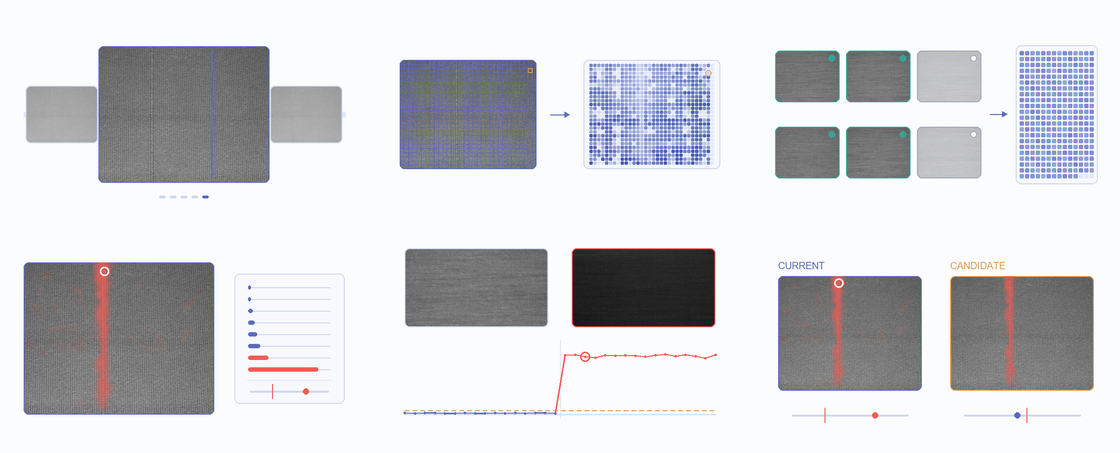
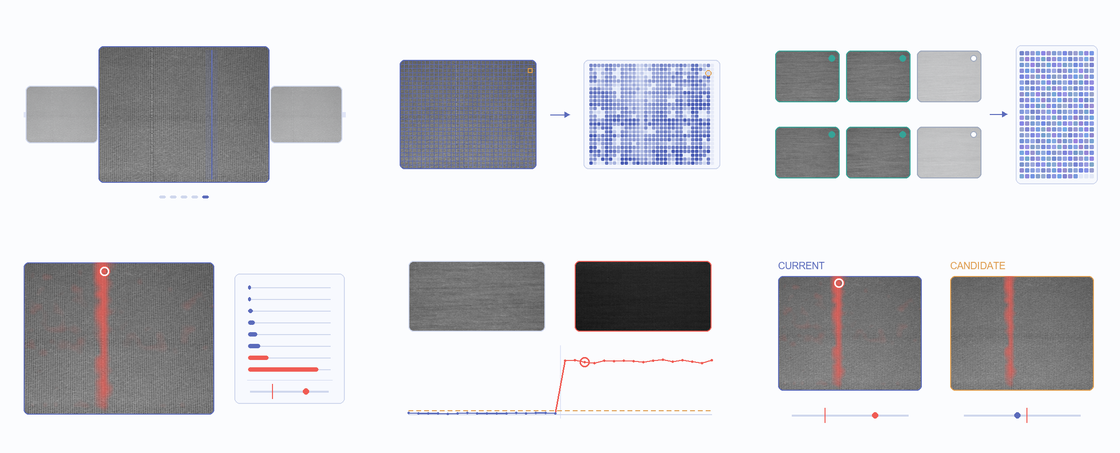
Balance visual shift animation layout

Changed region(s): [[0.3438, 0.5254, 0.6562, 0.7417], [0.3438, 0.8962, 0.625, 0.9272], [0.5, 0.7726, 0.6562, 0.8344]]

diff --git a/scripts/generate_next_method_gifs.py b/scripts/generate_next_method_gifs.py
@@ -256,7 +256,7 @@ def animation_05(meta: dict) -> list[Image.Image]:
     limit = float(meta["drift_threshold"])
     if len(source_scores) != 16 or len(target_scores) != 16 or ends[-1] != 608:
         raise ValueError("The shift animation needs 16 consecutive windows per run")
-    plot = (42, 235, 678, 365)
+    plot = (50, 247, 670, 365)
     coordinate = lambda value: plot[3] - round(value * (plot[3] - plot[1]))
     step = (plot[2] - plot[0]) / (len(source_scores) + len(target_scores) - 1)
     source_points = [(round(plot[0] + step * i), coordinate(score))
@@ -273,13 +273,13 @@ def animation_05(meta: dict) -> list[Image.Image]:
         draw = ImageDraw.Draw(base)
         source_image = images[0 if tick < 5 else 1]
         target_image = images[2 if tick < 12 else 3 if tick < 16 else 4]
-        photo(base, source_image, (42, 25, 294, 162),
+        photo(base, source_image, (50, 51, 280, 145),
               outline=INDIGO if progress < .5 else LINE)
-        photo(base, target_image, (384, 25, 294, 162),
+        photo(base, target_image, (390, 51, 280, 145),
               outline=RED if progress >= .5 else LINE,
               opacity=.5 if progress < .5 else 1)
         draw = ImageDraw.Draw(base)
-        draw.line((boundary, 213, boundary, 373), fill=PALE, width=2)
+        draw.line((boundary, 224, boundary, 373), fill=PALE, width=2)
         draw.line((plot[0], plot[3], plot[2], plot[3]), fill=LINE, width=2)
         threshold_y = coordinate(limit)
         for x in range(plot[0], plot[2], 16):
